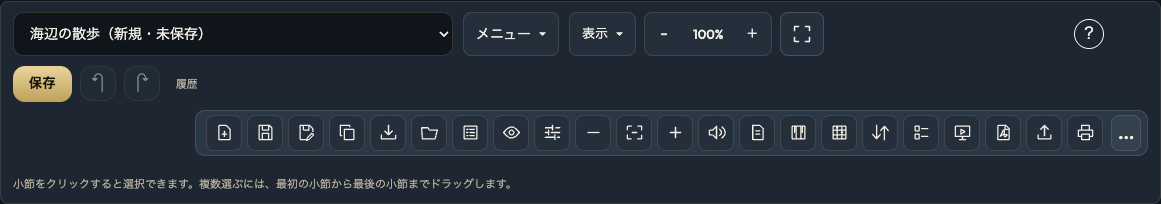
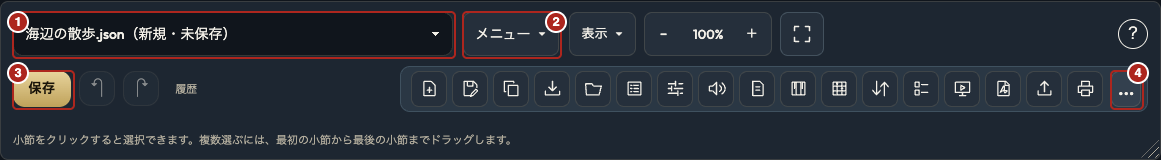
Compact the measure editor and update illustrated score guides

diff --git a/apps/cruise-studio/score-guide/index.html b/apps/cruise-studio/score-guide/index.html
@@ -12,12 +12,12 @@
 .section-map-key{margin:.8rem 0;padding-left:1.8rem;font-size:.97rem;color:#292722}.section-map-key li::marker{color:#a42b22;font-weight:700}.section-copy-steps{display:grid;grid-template-columns:repeat(2,minmax(0,1fr));gap:1.2rem}.section-copy-steps figure{margin:0}.section-copy-steps figcaption,.section-result figcaption{margin:0 0 .6rem;color:#292722;font-size:1rem}.section-copy-steps b,.section-result b{display:block}.section-result{margin-top:1.3rem}@media(min-width:651px){.section-copy-steps figure:last-child{grid-column:1/-1;display:flex;align-items:center;gap:1.4rem}.section-copy-steps figure:last-child img{order:-1}}@media(max-width:650px){.section-copy-steps{grid-template-columns:1fr}}@media print{.section-copy-steps{display:block}.section-copy-steps figure{margin:1rem 0}.section-copy-steps img{max-height:55mm}}
 #batch article+article{margin-top:3rem}#batch h4{margin:1.6rem 0 .4rem}#batch h4+p{margin-top:0}#batch figcaption{margin-top:.35rem}
 </style>
-<header id="top"><p>Cruise Studio · Ver. 0.242.1-rc.1</p><h1>譜面クルーズ 取扱説明書</h1><p>曲を作り、小節に演奏を入力し、印刷・配布するまでの操作を説明します。チュートリアルでは「そらまで」、機能別の解説では「海辺の散歩」を使います。</p></header>
+<header id="top"><p>Cruise Studio · Ver. 0.242.2-rc.1</p><h1>譜面クルーズ 取扱説明書</h1><p>曲を作り、小節に演奏を入力し、印刷・配布するまでの操作を説明します。チュートリアルでは「そらまで」、機能別の解説では「海辺の散歩」を使います。</p></header>
 <section id="overview" class="opening"><h2>画面の見かた</h2><p>操作は上、譜面は中央、再生は下にあります。左のスタジオメニューから他のツールにも移動できます。</p>
-<figure><div class="capture"><img src="overview.png" width="1440" height="1000" alt="スタジオの中で譜面クルーズを開いた画面全体"><svg aria-hidden="true" viewBox="0 0 1440 1000"><rect x="241" y="178" width="1159" height="201" rx="5" fill="none" stroke="#c32820" stroke-width="3"/><circle cx="238" cy="175" r="20" fill="#ab271e" stroke="white" stroke-width="2"/><text x="238" y="182.6" text-anchor="middle" font-family="sans-serif" font-size="24" font-weight="bold" fill="white">1</text><rect x="481" y="594" width="678" height="111" rx="5" fill="none" stroke="#c32820" stroke-width="3"/><circle cx="478" cy="591" r="20" fill="#ab271e" stroke="white" stroke-width="2"/><text x="478" y="598.6" text-anchor="middle" font-family="sans-serif" font-size="24" font-weight="bold" fill="white">2</text><rect x="241" y="929" width="1159" height="60" rx="5" fill="none" stroke="#c32820" stroke-width="3"/><circle cx="238" cy="926" r="20" fill="#ab271e" stroke="white" stroke-width="2"/><text x="238" y="933.6" text-anchor="middle" font-family="sans-serif" font-size="24" font-weight="bold" fill="white">3</text></svg></div><figcaption><ul class="legend"><li><b>1</b>上部カードで曲とツールを選ぶ</li><li><b>2</b>譜面で編集・再生する小節を選ぶ</li><li><b>3</b>再生、テンポ、音量を操作する</li></ul></figcaption></figure>
+<figure><img src="overview.png" width="1440" height="1000" alt="スタジオの中で譜面クルーズを開いた画面全体"><figcaption><ul class="legend"><li><b>1</b>上部カードで曲とツールを選ぶ</li><li><b>2</b>譜面でセクションと小節を確認する</li><li><b>3</b>再生、練習テンポ、鳴らすパートを操作する</li></ul></figcaption></figure>
 <p><a href="#lesson">最初の1曲を作ってみる ↓</a></p></section>
 <nav id="contents" aria-label="目次"><strong>目次</strong><ul>
-<li><a href="#overview">画面の見かた</a></li><li><a href="#lesson">はじめての1曲</a></li><li><a href="#start">曲を作る・開く</a></li><li><a href="#save">保存場所・複製・変更履歴</a></li><li><a href="#history">変更履歴から戻す</a></li><li><a href="#song">曲情報</a></li><li><a href="#key-capo">キー・カポ</a></li><li><a href="#bars">小節を選ぶ・移動する</a></li><li><a href="#edit">小節編集と鍵盤・フォーム入力</a></li><li><a href="#catalogue-edit">コードとフォームの一括編集</a></li><li><a href="#sections">セクションを組み立てる</a></li><li><a href="#batch">コード・ストローク一括入力</a></li><li><a href="#view">譜面の表示設定</a></li><li><a href="#play">再生と練習</a></li><li><a href="#sound-settings">音設定</a></li><li><a href="#share">書き出し・印刷・ビューワー</a></li><li><a href="#keys">キー操作・困ったとき</a></li><li><a href="#contact">お問い合わせ</a></li></ul></nav>
+<li><a href="#overview">画面の見かた</a></li><li><a href="#lesson">はじめての1曲</a></li><li><a href="#start">曲を作る・開く</a></li><li><a href="#save">保存場所・複製・変更履歴</a></li><li><a href="#history">変更履歴から戻す</a></li><li><a href="#song">曲情報</a></li><li><a href="#key-capo">キー・カポ</a></li><li><a href="#bars">小節を選ぶ・移動する</a></li><li><a href="#edit">小節編集と鍵盤・フォーム入力</a></li><li><a href="#edit-full">全小節を編集する</a></li><li><a href="#edit-values">音価と入力キー</a></li><li><a href="#catalogue-edit">コードとフォームの一括編集</a></li><li><a href="#sections">セクションを組み立てる</a></li><li><a href="#batch">コード・ストローク一括入力</a></li><li><a href="#view">譜面の表示設定</a></li><li><a href="#play">再生と練習</a></li><li><a href="#sound-settings">音設定</a></li><li><a href="#share">書き出し・印刷・ビューワー</a></li><li><a href="#keys">キー操作・困ったとき</a></li><li><a href="#contact">お問い合わせ</a></li></ul></nav>
 <main><section id="lesson"><h2>はじめての1曲「そらまで」</h2>
 <p>4/4拍子、BPM 100の4小節を作ります。コードとストロークは一括入力し、歌詞とメロディは各拍の先頭に入れます。</p>
 <h3>1. 曲を作る</h3><p>「メニュー」→「新しい曲を作成」を開き、曲名に「そらまで」、BPMに100を入力します。拍子は4/4です。右の譜面に曲名とBPMが反映されたことを確認します。この画面を開いたまま、手順2に進みます。</p>
@@ -35,15 +35,15 @@
 <h3>5. 小節編集を開く</h3><p>譜面の1小節目をクリックし、上部カードの「編集」を押します。編集画面の上で「4小節」を選ぶと、4小節分を横に並べて入力できます。</p>
 <figure><img src="lesson/edit.png" width="452" height="506" alt="選んだ小節と上部カードの編集ボタン"><figcaption>①1小節目　②編集</figcaption></figure>
 <h3>6. 歌詞を入れる</h3><p>歌詞行の各拍の先頭に、ひらがなを1文字ずつ入力します。1小節目なら、1拍目「あ」、2拍目「さ」、3拍目「の」、4拍目「ひ」です。8分グリッドでは各拍の左側のマスを使います。右へスクロールしながら、下の表のとおりに4小節分を入力します。</p><table class="lesson-notes"><caption>各列が1拍です。上段が歌詞、下段がメロディです。</caption><thead><tr><th>小節・コード</th><th>1拍目</th><th>2拍目</th><th>3拍目</th><th>4拍目</th></tr></thead><tbody><tr><th>1・C</th><td>あ<br><span>ド</span></td><td>さ<br><span>ミ</span></td><td>の<br><span>ソ</span></td><td>ひ<br><span>ミ</span></td></tr><tr><th>2・Am</th><td>か<br><span>ラ</span></td><td>ぜ<br><span>ソ</span></td><td>の<br><span>ミ</span></td><td>ね<br><span>ド</span></td></tr><tr><th>3・F</th><td>そ<br><span>ファ</span></td><td>ら<br><span>ラ</span></td><td>ま<br><span>ソ</span></td><td>で<br><span>ファ</span></td></tr><tr><th>4・G</th><td>と<br><span>ソ</span></td><td>ど<br><span>レ</span></td><td>け<br><span>シ</span></td><td>て<br><span>ソ</span></td></tr></tbody></table>
-<figure><img src="lesson/lyrics.png" width="480" height="338" alt="編集画面の1小節目。コードCの下の歌詞行に「あ・さ・の・ひ」が並ぶ"><figcaption>①4小節表示　②1拍目「あ」　③4拍目「ひ」</figcaption></figure>
+<figure><img src="lesson/lyrics.png" width="515" height="310" alt="編集画面の1小節目。コードCの下の歌詞行に「あ・さ・の・ひ」が並ぶ"><figcaption>①4小節表示　②1拍目「あ」　③4拍目「ひ」</figcaption></figure>
 <h3>7. メロディを入れる</h3><p>メロディ行で、歌詞と同じ位置に音名を入力します。「ファ」は1つのマスにまとめます。4小節分を入力したら編集画面を閉じ、歌詞の真下に各音が並んでいることを確認します。</p>
-<figure><img src="lesson/notes.png" width="480" height="338" alt="1小節目の歌詞の真下に「ド・ミ・ソ・ミ」が並ぶ"><figcaption>①4小節表示　②1拍目「ド」　③4拍目「ミ」</figcaption></figure><figure><img src="lesson/score.png" width="697" height="130" alt="コード、ストローク、歌詞、メロディの4段がそろった完成譜"><figcaption>4小節すべてにコードと4本の矢印があり、その下に歌詞とメロディが並びます。</figcaption></figure>
+<figure><img src="lesson/notes.png" width="515" height="310" alt="1小節目の歌詞の真下に「ド・ミ・ソ・ミ」が並ぶ"><figcaption>①4小節表示　②1拍目「ド」　③4拍目「ミ」</figcaption></figure><figure><img src="lesson/score.png" width="697" height="130" alt="コード、ストローク、歌詞、メロディの4段がそろった完成譜"><figcaption>4小節すべてにコードと4本の矢印があり、その下に歌詞とメロディが並びます。</figcaption></figure>
 <h3>8. 編集用のファイルを保存する</h3><p>Chrome・Edgeでは「メニュー」→「名前をつけて保存」でフォルダとファイル名を選びます。Safari・Firefoxでは同じメニューを開き、説明文中の「JSONを書き出す」を押します。このファイルは「ファイルを開く(JSON)」で再編集できます。</p>
 <figure><img src="lesson/save.png" alt="Safariの「名前をつけて保存」画面。説明文中の「JSONを書き出す」リンク"><figcaption>Safari・Firefoxでは説明文中の「JSONを書き出す」を押します。</figcaption></figure><p><a href="#save">Safariで端末内の保存先を選ぶ方法</a></p>
-<h3>9. ビューワーに書き出して再生する</h3><p>メニュー → 譜面ビューワーに書き出す。ビューワーのライブラリ内のフォルダを選びます。最初は「未分類」のまま「書き出す」を押します。完了画面の「譜面ビューワーに移動」を押し、下の「再生」で演奏を聴きます。同じボタンで一時停止できます。</p>
-<figure><img src="lesson/export.png" width="476" height="408" alt="演奏用譜面の書き出し先を選ぶ画面"><figcaption>①ライブラリ内のフォルダ　②書き出す</figcaption></figure><figure><img src="lesson/open.png" width="476" height="276" alt="書き出し完了画面"><figcaption>①譜面ビューワーに移動</figcaption></figure><figure><img src="lesson/play.png" width="1256" height="908" alt="完成した曲をビューワーで再生している画面"><figcaption>①再生・一時停止</figcaption></figure>
+<h3>9. ビューワーに書き出して再生する</h3><p>メニュー → 譜面ビューワーに書き出す。ビューワーのライブラリ内のフォルダを選びます。最初は「未分類」のまま「書き出す」を押します。完了画面の「譜面ビューワーに移動」を押し、下の「再生」で演奏を聴きます。同じボタンを押すと止まります。</p>
+<figure><img src="lesson/export.png" width="476" height="408" alt="演奏用譜面の書き出し先を選ぶ画面"><figcaption>①ライブラリ内のフォルダ　②書き出す</figcaption></figure><figure><img src="lesson/open.png" width="476" height="276" alt="書き出し完了画面"><figcaption>①譜面ビューワーに移動</figcaption></figure><figure><img src="lesson/play.png" width="1256" height="908" alt="完成した曲をビューワーで再生している画面"><figcaption>①再生・停止</figcaption></figure>
 </section><section id="start"><h2>曲を作る・開く</h2><dl><dt>新しく作る</dt><dd>「メニュー」または曲名欄の「その他のファイル操作…」で「新しい曲を作成」を選びます。<a href="#lesson">4小節の練習曲を作る手順</a></dd><dt>このブラウザの曲を開く</dt><dd>左上の曲名欄を開き、一覧から曲名を選びます。</dd><dt>端末のJSONファイルを開く</dt><dd>曲名欄の「その他のファイル操作…」→「ファイルを開く(JSON)」を選び、保存しておいた編集用ファイルを開きます。</dd></dl>
-<figure><div class="capture"><img src="toolbar.png" width="1161" height="204" alt="上段の曲切り替え・メニュー・表示と、下段の保存・履歴・ツール"><svg aria-hidden="true" viewBox="0 0 1161 203"><rect x="14" y="12" width="438" height="42" rx="5" fill="none" stroke="#c32820" stroke-width="3"/><circle cx="15" cy="15" r="13" fill="#ab271e" stroke="white" stroke-width="2"/><text x="15" y="19.9" text-anchor="middle" font-family="sans-serif" font-size="16" font-weight="bold" fill="white">1</text><rect x="464" y="12" width="94" height="42" rx="5" fill="none" stroke="#c32820" stroke-width="3"/><circle cx="461" cy="15" r="13" fill="#ab271e" stroke="white" stroke-width="2"/><text x="461" y="19.9" text-anchor="middle" font-family="sans-serif" font-size="16" font-weight="bold" fill="white">2</text><rect x="14" y="66" width="57" height="34" rx="5" fill="none" stroke="#c32820" stroke-width="3"/><circle cx="15" cy="63" r="13" fill="#ab271e" stroke="white" stroke-width="2"/><text x="15" y="67.9" text-anchor="middle" font-family="sans-serif" font-size="16" font-weight="bold" fill="white">3</text><rect x="1112" y="115" width="28" height="34" rx="5" fill="none" stroke="#c32820" stroke-width="3"/><circle cx="1109" cy="112" r="13" fill="#ab271e" stroke="white" stroke-width="2"/><text x="1109" y="116.9" text-anchor="middle" font-family="sans-serif" font-size="16" font-weight="bold" fill="white">4</text></svg></div><figcaption><ul class="legend"><li><b>1</b>曲の切り替え・保存場所・ファイル一覧</li><li><b>2</b>曲の作成や書き出し</li><li><b>3</b>現在の曲を保存</li><li><b>4</b>ツールの表示項目を選択</li></ul></figcaption></figure>
+<figure><img src="toolbar.png" width="1161" height="159" alt="上段の曲切り替え・メニュー・表示と、下段の保存・履歴・ツール"><figcaption><ul class="legend"><li><b>1</b>曲の切り替え・保存場所・ファイル一覧</li><li><b>2</b>曲の作成や書き出し</li><li><b>3</b>現在の曲を保存</li><li><b>4</b>ツールの表示項目を選択</li></ul></figcaption></figure>
 <p>上部カードの右下をドラッグすると、文字とボタンの大きさをまとめて調整できます。右下をダブルクリックすると標準に戻ります。左上の曲名欄から保存場所の確認とファイル一覧・削除ができます。新規作成、保存、複製、読み込み、書き出し、印刷は「その他のファイル操作…」を開いて選びます。「メニュー」からも同じ操作ができます。ツールの各アイコンにポインターを置くと操作名が出ます。「…」で表示項目を選び、アイコンのドラッグで順番を変更できます。最初は、上部カードに専用ボタンがある保存・表示・全画面・拡大縮小・ツールエリアのアイコンを省いています。「すべて表示」でメニューの全操作をアイコンにできます。</p></section>
 <section id="save"><h2>保存場所・複製・変更履歴</h2>
 <section id="browser-saving" aria-labelledby="browser-saving-title">
@@ -58,15 +58,15 @@
 </section>
 <dl>
 <dt>保存／名前をつけて保存</dt><dd>ファイル保存に対応したPCブラウザでは、初回の「保存」で場所と名前を選びます。次の「保存」は関連付けたファイルを更新します。「メニュー」→「名前をつけて保存」で別名を選ぶと、それ以降の保存先は新しいファイルになります。左上の曲の選択欄にはファイル名が表示され、譜面のタイトルはそのままです。</dd>
-<dt>保存場所</dt><dd>保存後の「保存場所」、または曲名欄の「この曲の保存場所」で確認できます。Chrome・Edgeでファイルに保存した曲はファイル名が表示されます。保存先のフルパスはブラウザから取得できません。「保存フォルダを開く」でファイル選択画面に保存先を表示し、キャンセルで戻れます。サイトデータに保存した曲を別のフォルダで扱うには「JSON書き出し」を使います。</dd>
+<dt>保存場所</dt><dd>保存後の案内に出る「保存場所」ボタン、または曲名欄の「この曲の保存場所」で確認できます。Chrome・Edgeでファイルに保存した曲はファイル名が表示されます。保存先のフルパスはブラウザから取得できません。「保存フォルダを開く」でファイル選択画面に保存先を表示し、キャンセルで戻れます。サイトデータに保存した曲を別のフォルダで扱うには「JSON書き出し」を使います。</dd>
 <dt>Safariで端末内のフォルダに保存する</dt><dd>「保存」はこのMacに曲を記録し、Safariがサイトデータとして管理します。サイトデータを消す前や、別の端末に渡すときは「JSON書き出し」で編集用ファイルをダウンロードしてください。
 <ul><li><strong>Mac</strong>　Safari → 設定 → 一般 → ファイルのダウンロード先で、保存時に毎回確認する設定か、Mac内のフォルダを選びます。</li></ul>再編集は曲名欄の「その他のファイル操作…」→「ファイルを開く(JSON)」から。編集を続けたあとは、更新版のJSONをもう一度書き出してください。</dd>
 <dt>不要な曲を削除する</dt><dd>曲名の選択欄で「ファイル一覧・削除…」を選び、対象の曲の「削除」を押します。パソコン版Chrome・Edgeでは、保存先や読み込み元を記憶している曲には「元のフォルダを開く」が表示されます。ファイル選択画面で場所を確認したら「キャンセル」で確認画面に戻れます。確認画面で対象の名前を確かめ、「削除する」を押します。続けて別の下書きも整理できます。ファイル一覧や保存場所は、カードの外側をクリックして閉じられます。新規作成したままの曲は「削除する」で下書きも消えます。ブラウザ内に保存した曲は、保存データと下書きの両方が削除されます。PCに書き出したJSONは手元に残ります。</dd></dl>
 <figure><div class="capture"><img src="files.png" width="512" height="211" alt="ファイル一覧の曲名と削除ボタン"><svg aria-hidden="true" viewBox="0 0 512 210"><rect x="22" y="67" width="405" height="37" rx="5" fill="none" stroke="#c32820" stroke-width="3"/><circle cx="19" cy="64" r="13" fill="#ab271e" stroke="white" stroke-width="2"/><text x="19" y="68.9" text-anchor="middle" font-family="sans-serif" font-size="16" font-weight="bold" fill="white">1</text><rect x="439" y="67" width="51" height="37" rx="5" fill="none" stroke="#c32820" stroke-width="3"/><circle cx="436" cy="64" r="13" fill="#ab271e" stroke="white" stroke-width="2"/><text x="436" y="68.9" text-anchor="middle" font-family="sans-serif" font-size="16" font-weight="bold" fill="white">2</text></svg></div><figcaption><ul class="legend"><li><b>1</b>曲を開く</li><li><b>2</b>一覧から削除</li></ul></figcaption></figure><dl>
 <dt>曲を複製</dt><dd>メニューから「曲を複製」を選び、別の曲として作業を続けます。編曲案を分けたいときに使います。</dd>
-<dt>拡大したフォームの運指を変える</dt><dd>譜面上のフォームを開き、押さえている指をクリックします。希望の指になったら「譜面に反映」を押します。下のフォーム一覧では、先に「編集する位置」で「全て」または特定の小節を選べます。</dd><dt>取り消し・履歴</dt><dd>表示設定、曲情報・キー／カポ、ストロークのパターン、拡大フォームの「ここで運指を調整」では、確定前に Ctrl＋Z（Macは⌘Z）で一手戻せます。Shiftを加えるとやり直せます。未保存の曲から新規作成・ホーム・戻るを選ぶと、保存するか確認します。「保存せず続行」を選んでも下書きは残り、ホームから戻ると続きが開きます。</dd><dd>保存ボタンの横の矢印で編集を一手ずつ取り消し・やり直しできます。「履歴」で過去の状態を選ぶと譜面を確認できます。編集履歴がいっぱいになると、古い操作から順に取り消しの対象外になります。「この時点に戻す」を確定すると、それ以降の履歴が失われます。ファイルへ反映するには保存します。</dd></dl></section>
+<dt>取り消し・履歴</dt><dd>セクション編集、曲情報、キー・カポ、表示設定、ストロークのパターン、拡大フォームの運指調整では、確定前の変更も Ctrl＋Z（Macは⌘Z）で一手ずつ取り消せます。Shiftを加えるとやり直せます。未保存の編集があるとき、新規作成や「ホーム」「戻る」では保存するか確認します。「保存せず続行」でも下書きは残ります。譜面クルーズに入り直したときや曲を切り替えるときは、編集中の下書きをそのまま開きます。</dd><dd>保存ボタンの横の矢印で編集を一手ずつ取り消し・やり直しできます。「履歴」で過去の状態を選ぶと譜面を確認できます。編集履歴がいっぱいになると、古い操作から順に取り消しの対象外になります。「この時点に戻す」を確定すると、それ以降の履歴が失われます。ファイルへ反映するには保存します。</dd></dl></section>
 <section id="history"><h2>変更履歴から戻す</h2>
-<p>上部カードの「履歴」を開きます。例では「キー・カポを変更」する前の譜面を確認します。</p>
+<p>上部カードの「履歴」を開きます。例では「曲情報を変更」した時点の譜面を確認します。</p>
 <figure><img src="history-choose.png" width="350" height="220" alt="変更履歴で「曲情報を変更」を選んだ画面。選んだ行、表示中の時点の説明、決定ボタンに番号を表示"><figcaption><ol class="section-map-key">
 <li><strong>一覧で見たい時点を選びます。</strong> 「現在」の一つ下にある「曲情報を変更」をクリックします。</li>
 <li><strong>一覧の上に表示された時点と、背後の譜面を確認します。</strong> 別の行もクリックして見比べられます。確認だけなら「キャンセル」で元の譜面に戻ります。</li>
@@ -96,22 +96,38 @@
 <figure><img src="key-transpose.png" width="538" height="146" alt="カポなしでCからDへ移調した比較表。原曲キーとPlayキーがともにDになる"><figcaption>カポなしでCからDに移調する例。原曲キーとPlayキーがともにDになることを確認して「適用」を押します。</figcaption></figure></section>
 <section id="bars"><h2>小節を選ぶ・移動する</h2><p>小節をクリックすると上部カードに小節操作が出ます。続けて同じ小節をクリックするか「編集」で入力へ進みます。複数小節は先頭から末尾へドラッグするか、最初をクリックして最後をShift＋クリックします。譜面の余白で選択を解除します。</p><dl><dt>小節追加・複製</dt><dd>選択位置の後ろに空の小節、または選んだ内容のコピーを追加します。</dd><dt>コピー・貼り付け</dt><dd>元の範囲をコピーし、貼り始める位置を選びます。「上書き貼り付け」は既存の位置を置き換え、「挿入して貼り付け」は後ろの小節を送ります。</dd><dt>移動</dt><dd>前へ・後ろへ移動するボタンで並びを変えます。セクション境界では移動後の所属も確認します。</dd><dt>削除</dt><dd>「枠を残して削除」は譜面上の場所を空き枠として残します。「詰めて削除」は後ろの小節を前へ詰めます。空き枠は再生されません。</dd></dl></section>
 <section id="edit"><h2>小節編集と鍵盤・フォーム入力</h2>
-<p>譜面で直したい小節を選び、「編集」を押します。画像は「海辺の散歩」の最初の小節です。</p>
-<figure><img src="editor.png" width="960" height="339" alt="①小節の移動と表示数、②1拍目の4行のマス、③各行の数字と▼、④再生"><figcaption><ol class="section-map-key">
-<li><strong>編集する小節を選びます。</strong> 「1小節」〜「4小節」で表示数を選びます。「前へ」「次へ」は表示数ずつ移動します。9〜12小節を表示中なら、次は13〜16小節です。最後の小節の行末でEnterを押すと、次の範囲の先頭へ進みます。</li>
-<li><strong>入れたい拍のマスをクリックします。</strong> 図の1拍目なら、コード行に「C」、歌詞行に「あ」と入力します。ストローク行はDで↓、Uで↑を入れます。</li>
-<li><strong>行名の横で入力方法を選べます。</strong> 数字でその行の音価を変えます。▼を押すと、コード行はフォーム、メロディ行は鍵盤が開きます。</li>
-<li><strong>上の「再生」で確かめます。</strong> 聴き直したいところを修正し、終わったら右上の「×」で譜面に戻ります。</li>
+<p>譜面で直したい小節を選び、「編集」を押します。図は「海辺の散歩」の最初の小節です。</p>
+<figure><img src="editor.png" width="960" height="311" alt="①小節の移動と表示数、②入力するマス、③行の音価とフォーム・鍵盤、④横方向の倍率、⑤再生、⑥最大化"><figcaption><ol class="section-map-key">
+<li><strong>編集する小節を表示します。</strong> 「1小節」〜「4小節」で表示数を選びます。「前へ」「次へ」は表示数ずつ移動します。9〜12小節を表示中なら、次は13〜16小節です。</li>
+<li><strong>入力したい拍のマスを選びます。</strong> 上からコード、ストローク、歌詞、メロディです。マス右下の数字をクリックすると、そのマスの音価を変えられます。</li>
+<li><strong>行の音価や入力方法を選びます。</strong> 行名の横の数字で音価をそろえ、▼でコード・フォームやメロディ鍵盤を開きます。</li>
+<li><strong>マスの横幅を調整します。</strong> 「−／＋」で変更し、中央の倍率を押すと100%に戻ります。横にスクロールするときも、行名は左端に残ります。</li>
+<li><strong>上の「再生」で試聴します。</strong> 通常時は表示中の小節を再生します。作業を終えるには右上の「×」を押します。</li>
+<li><strong>全小節を編集するときは右上で最大化します。</strong> もう一度押すと元の大きさと位置に戻ります。</li>
 </ol></figcaption></figure>
-<p>カードの右端を左右にドラッグすると、マスの横幅を保ったまま、見える範囲を広げたり狭めたりできます。右下の斜線をドラッグすると、カードと一緒にマスや文字を拡大・縮小できます。右上の最大化ボタンで、選択した小節の行を一番上に表示します。全小節が譜面と同じ改行・セクション区切りで並び、上下にスクロールして編集できます。「前へ」「次へ」は譜面の行単位で移動します。行名の横で音価を変えると、その行の小節だけに適用します。最大化ボタンをもう一度押すと元の大きさと位置に戻ります。マスの横幅は上部の−／＋で調整できます。「右窓へ」で編集画面の位置を切り替えられます。</p>
-<dl><dt>コード本棚のフォームを取り込む</dt><dd>コードの編集カードで「コード本棚を開く」→「本棚からフォームを書き出す」を押します。別タブの本棚でコードを選び、元のタブの「JSONファイルを読み込む」で取り込んでください。コード図を押すと、選んだマスにコードとフォームが入ります。ベース・テンションに指定した運指も使えます。</dd><dt>コード・フォーム</dt><dd>コード行のマスをクリックしてEmやG/Bなどを入力します。選択中のマスをもう一度クリックすると文字単位で直せます。行名の▼からコード・フォームを選べます。譜面または譜面下のフォーム一覧で図をクリックし、拡大図の「編集」を押すと、そのコードの小節編集が開きます。「詳細設定」を押すと、指板が「運指」で開きます。一覧で同じフォームが複数箇所にあるときは、「編集する位置」で小節と拍を選ぶと、その箇所だけを編集できます。「全て」を選んで「編集」を押すと、小節編集と同じフォームパネルが単独で開きます。コード名やダイアトニックコードを選び、図または「詳細設定」の指板で押さえ方を変更できます。最後に「反映」を押します。「コード本棚に保存」を押すと、コードクルーズが別タブで開きます。フォルダを選び、「保存する」を押すと本棚に追加されます。「詳細設定」の「表示範囲」は、押さえる位置に合わせて自動で決まります。指板の番号帯にある左右のつまみをドラッグするか、「開始」「終了」にフレット番号を入力すると、そのフォームの範囲を指定できます。「自動」にチェックを戻すと解除できます。</dd>
-<dt>ストローク</dt><dd>Dは↓、Uは↑、Xはミュート。マスの再クリックや上下キーでも切り替えられます。〜は直前の音を伸ばす指定です。RまたはSpaceは休符、Delete／Backspaceは空欄です。長い音価の記号も弾き始める位置を示します。</dd>
-<dt>歌詞・メロディ</dt><dd>歌い始めるマスに文字を入れます。メロディは行名横の▼から鍵盤でも入力できます。音の高さを確認して試聴します。表示設定では歌詞・メロディの文字サイズと字間を個別に調節できます。</dd>
-<dt>行とマスの音価</dt><dd>編集画面に並ぶ小節は、譜面上でも色が付きます。左の行名横で、表示中の小節の行全体を同じ音価にそろえます。横にスクロールしても行名は左端に残ります。1マスだけ変えるには右下の数字を選びます。マスにカーソルがあるときは Shift＋プラスで音価を短く、Shift＋マイナスで長くできます。ピリオド（.）で付点を付け外しします。全音符から32分音符まで選べます。「1」は全音符、「8」は8分音符、付点音符は音価を選び、「付点」にチェックして「適用」を押します。「8·」は付点8分音符です。全音符と32分音符では「付点」を選べません。例えば後半の8分を16分にすると、1拍に8分・16分・16分が並び、行名横は「混在」になります。メロディはマスの長さだけ鳴り、2分なら「〜」を入力せずに2拍伸びます。別の音の開始位置をまたぐ長さは選べません。音価の変更も取り消し・やり直しができます。</dd>
-<dt>マスのコピー・移動</dt><dd>同じ行をドラッグまたはShift＋クリックで選び、⌘／Ctrl＋C、貼り始めるマスで⌘／Ctrl＋V。伸ばしは先頭の音と一緒に選びます。入力済みマスの左下の点をドラッグすると移動先を上書きします。</dd></dl></section>
+<p>カードの右端をドラッグすると、マスの横幅を保ったまま見える範囲を変えられます。右下の斜線をドラッグすると、カードと一緒にマスや文字も拡大・縮小できます。「右窓へ」でカードを右側に移せます。最大化したいときは「カードに戻す」で浮かぶカードに戻します。</p>
+<h3 id="edit-full">最大化して全小節を編集する</h3>
+<p>選んだ小節が青く強調され、その小節を含む譜面の行が最上段に来ます。全小節が譜面と同じ改行・セクション区切りで並び、上下にスクロールして編集できます。</p>
+<figure><img src="editor-full.png" width="1673" height="992" alt="小節編集を最大化した例。①前へ・次へ、②選択中の2小節目、③行の音価、④最大化を戻す"><figcaption>① 行単位で移動　② 選択中の小節　③ この行の音価を一括変更　④ 元のカードに戻す</figcaption></figure>
+<p>「前へ」「次へ」は譜面の行単位で移動し、上の「再生」は選んでいる行を試聴します。行名の横で音価をそろえると、その行に並ぶ小節だけに適用されます。</p>
+<h3 id="edit-values">音価を変える</h3>
+<p>マス右下の数字は「1」が全音符、「8」が8分音符、「8·」が付点8分音符です。数字をクリックし、全音符から32分音符まで選びます。付点は「付点」にチェックし、「適用」を押します。</p>
+<figure><img src="editor-values.png" width="480" height="248" alt="マスの音価。①音価の選択肢、②付点、③適用"><figcaption>① 音価　② 付点をつける　③ 適用</figcaption></figure>
+<p>前後の入力と重なる長さや、小節に収まらない長さは選べません。全音符と32分音符は付点を付けられません。ショートカットは <kbd>Shift</kbd>＋<kbd>+</kbd> で短く、<kbd>Shift</kbd>＋<kbd>−</kbd> で長く、<kbd>.</kbd> で付点を付け外しします。</p>
+<p>後半の8分マスを16分にすると、1拍を8分＋16分＋16分に分けられます。音価の違うマスがあると、行名の横に「混在」と表示されます。行名の横で音価を選ぶと、通常時は表示中の小節、最大化時は操作した譜面の行だけが対象です。変更は取り消し・やり直しできます。</p>
+<dl><dt>ストローク</dt><dd>マスを選んでDでダウン（↓）、Uでアップ（↑）、Xでミュート、<kbd>~</kbd>で直前のストロークを伸ばします（〜）。選択したマスの再クリックや上下キーでも切り替えられます。R／Spaceで休符、Delete／Backspaceで空欄です。</dd>
+<dt>歌詞・メロディ</dt><dd>歌い始めのマスに入力します。メロディは指定した音価で鳴り、選んだ長さを鳴らすための「〜」の追加入力は不要です。既存譜面などの「〜」は直前の音を伸ばす記号です。歌詞は歌い始めだけに入れます。▼で鍵盤を開くと、音を選んで試聴できます。</dd>
+<dt>マスの移動・コピー</dt><dd>Enter／Tabで次のマス、Shift＋Tabで前のマスへ進み、小節の端を越えると隣の小節へ移ります。同じ行をドラッグまたはShift＋クリックで選び、⌘／Ctrl＋Cでコピーします。貼り始めのマスで⌘／Ctrl＋Vを押します。伸ばしは先頭の音と一緒に選びます。入力済みマスの左下の点をドラッグすると移動先を上書きします。</dd></dl>
+<h3 id="form-fingering">コードフォームの運指・押さえ方を変える</h3>
+<p>譜面や下のコードフォーム一覧で図をクリックします。拡大図の押さえている位置をクリックするたびに運指が変わります。フォーム一覧では、先に「編集する位置」で小節・拍、または「全て」を選びます。</p>
+<figure><img src="form-fingering.png" width="400" height="502" alt="拡大図で運指を変更中。①指をクリック、②詳しく編集、③譜面に反映"><figcaption>① 運指を変える　② コード編集へ進む　③ 運指の変更を反映</figcaption></figure>
+<p>運指だけ直したら「譜面に反映」を押します。「詳しく編集」は変更した運指を引き継いでコード編集を開きます。「全て」を選んだ場合は一括編集が開き、「○箇所に反映」で確定します。運指の変更を取り消して拡大図を閉じるには「キャンセル」を押します。</p>
+<dl><dt>小節編集でコード・フォームを選ぶ</dt><dd>コード行にEmやG/Bなどを入力します。▼でフォームの候補が開きます。拡大図の左上の「編集」からも該当のコードへ移れます。「詳細設定」は「運指」で開きます。表示するフレットを指定するには「表示範囲」の両端をドラッグするか、開始・終了の番号を入力します。「自動」にチェックすると、押さえ方に合う範囲に戻ります。</dd>
+<dt>コード本棚から取り込む</dt><dd>「コード本棚を開く」→「本棚からフォームを書き出す」を押し、別タブでフォームを選びます。戻って「JSONファイルを読み込む」を押し、一覧のコード図をクリックするとマスに入ります。ベース音やテンションに指定した運指も引き継がれます。</dd>
+<dt>作ったフォームを本棚に残す</dt><dd>「詳細設定」の右下の「コード本棚に保存」を押します。開いたコードクルーズのタブで保存先のフォルダを選び、「保存する」を押します。</dd></dl></section>
 <section id="catalogue-edit"><h2>コードとフォームの一括編集</h2>
 <p>譜面下の「コードフォーム一覧」で、複数の箇所に使っているフォームをクリックします。拡大画面で「編集する位置」を「全て」にして、左上の「編集」を押します。</p>
-<figure><img src="catalogue-all.png" width="400" height="418" alt="フォーム一覧でCを拡大した画面。「編集する位置」は「全て」、左上に「編集」ボタン"><figcaption>特定の1箇所だけを変えたい場合は、「全て」の代わりに小節と拍を選びます。</figcaption></figure>
+<figure><img src="catalogue-all.png" width="400" height="448" alt="フォーム一覧でCを拡大した画面。「編集する位置」は「全て」、左上に「編集」ボタン"><figcaption>特定の1箇所だけを変えたい場合は、「全て」の代わりに小節と拍を選びます。</figcaption></figure>
 <h3>同じフォームを使う5箇所を、CからDmに変える例</h3>
 <figure><img src="catalogue-edit.png" width="920" height="530" alt="一括編集画面。対象の5箇所を表示し、コード名とコード図をDmに変更した状態"><figcaption><ol class="section-map-key">
 <li><strong>上の「対象の5箇所を確認」を開きます。</strong> 第1小節・1拍目など、変更される位置が並びます。対象は一覧で選んだフォームを使う箇所です。</li>
@@ -135,7 +151,7 @@
 <figure><figcaption><b>3. パートを選んで挿入する</b>「コード」「ストローク」にだけチェックを付けて「実行」を押すと、サビの次に「Aメロ コピー」が入ります。</figcaption><img src="section-parts.png" width="262" height="175" alt="貼り付ける内容でコードとストロークにチェックを付け、実行を選ぶ画面"></figure>
 </div>
 <figure class="section-result"><figcaption><b>4. 名前と順番を確認して確定する</b>左の「セクション名」で「Aメロ コピー」を「2番Aメロ」に変更します。上の列でサビの次にあることを確認し、右上の「適用」を押します。</figcaption><img src="section-result.png" width="1050" height="140" alt="サビの直後に2番Aメロが入り、右上の適用で確定できる画面"></figure>
-<p>キーで操作する場合は、上の列でコピー元を選んで Ctrl＋C、挿入先を選んで Ctrl＋V を押します。適用前は Ctrl＋Z で一手戻り、Shiftを加えるとやり直せます。MacではCtrlの代わりに⌘を使います。</p>
+<p>キーで操作する場合は、上の列でコピー元を選んで Ctrl＋C、挿入先を選んで Ctrl＋V を押し、貼り付ける内容を選んで「実行」します。適用前は Ctrl＋Z で一手戻り、Shiftを加えるとやり直せます。MacではCtrlの代わりに⌘を使います。</p>
 <p>左下の「譜面の全体編集」からコードやストロークの一括入力へ進むと、編集中のセクション変更も曲に反映されます。</p></section>
 <section id="batch"><h2>コード・ストローク一括入力</h2>
 <article id="batch-chords"><h3>コード一括入力</h3>
@@ -170,10 +186,10 @@
 <li><strong>右上の「保存」で確定します。</strong> 編集前の見え方に戻って閉じるには「キャンセル」を押します。</li>
 </ol></figcaption></figure>
 <figure><img src="display-section-bars.png" width="264" height="156" alt="セクション別の表示を開き、対象にイントロ、小節数に3小節を指定した設定欄"><figcaption>②の設定例。他のセクションは全体の設定に従い、イントロだけが1行3小節になります。</figcaption></figure>
-<dl><dt>1行の小節数</dt><dd>自動では譜面の幅に応じて1・2・4小節になります。手動では最大8小節を指定できます。譜面例で行を選ぶと、その行の枠数と置く小節数を個別に変えられます。</dd><dt>セクションごとの変更</dt><dd>「セクション別の表示」で対象を選び、段組み、各行の表示、書体・色・サイズを調整します。未変更の項目は全体設定に従います。各行の「全体に戻す」でその行だけ戻せます。段組みも含めて戻すときは「このセクションを全体設定に戻す」を押します。譜面のセクション名の⚙はこの設定への近道です。</dd><dt>譜面の各要素</dt><dd>チェックで表示、Aaで書体、色見本で色、スライダーで文字やフォームの大きさを指定します。歌詞・メロディの字間、縦の罫線、ハイライトの透過率や再生棒の色も見本で確認できます。よく使う組み合わせは表示プリセットとして保存します。</dd><dt>ズーム・全画面</dt><dd>−／＋、トラックパッドのピンチ、Ctrl／⌘＋ホイールで読みやすい倍率にします。倍率表示を押すと標準に戻ります。全画面でも表示設定に進めます。</dd></dl></section>
-<section id="play"><h2>再生と練習</h2><figure><div class="capture"><img src="transport.png" width="1161" height="62" alt="再生ボタン、繰り返し、練習BPM、音の切り替えと音設定"><svg aria-hidden="true" viewBox="0 0 1161 62"><rect x="266" y="10" width="106" height="42" rx="5" fill="none" stroke="#c32820" stroke-width="3"/><circle cx="263" cy="15" r="13" fill="#ab271e" stroke="white" stroke-width="2"/><text x="263" y="19.9" text-anchor="middle" font-family="sans-serif" font-size="16" font-weight="bold" fill="white">1</text><rect x="382" y="10" width="38" height="42" rx="5" fill="none" stroke="#c32820" stroke-width="3"/><circle cx="379" cy="15" r="13" fill="#ab271e" stroke="white" stroke-width="2"/><text x="379" y="19.9" text-anchor="middle" font-family="sans-serif" font-size="16" font-weight="bold" fill="white">2</text><rect x="475" y="12" width="54" height="38" rx="5" fill="none" stroke="#c32820" stroke-width="3"/><circle cx="472" cy="15" r="13" fill="#ab271e" stroke="white" stroke-width="2"/><text x="472" y="19.9" text-anchor="middle" font-family="sans-serif" font-size="16" font-weight="bold" fill="white">3</text></svg></div><figcaption><ul class="legend"><li><b>1</b>再生・停止</li><li><b>2</b>繰り返し</li><li><b>3</b>練習テンポ</li></ul></figcaption></figure>
+<dl><dt>1行の小節数</dt><dd>自動では譜面の幅に応じて1・2・4小節になります。小節編集を最大化したときも、この段組みに従います。手動では最大8小節を指定できます。譜面例で行を選ぶと、その行の枠数と置く小節数を個別に変えられます。</dd><dt>セクションごとの変更</dt><dd>「セクション別の表示」で対象を選び、段組み、各行の表示、書体・色・サイズを調整します。未変更の項目は全体設定に従います。各行の「全体に戻す」でその行だけ戻せます。段組みも含めて戻すときは「このセクションを全体設定に戻す」を押します。譜面のセクション名の⚙はこの設定への近道です。</dd><dt>譜面の各要素</dt><dd>チェックで表示、Aaで書体、色見本で色、スライダーで文字やフォームの大きさを指定します。歌詞・メロディの字間、縦の罫線、ハイライトの透過率や再生棒の色も見本で確認できます。よく使う組み合わせは表示プリセットとして保存します。</dd><dt>ズーム・全画面</dt><dd>−／＋、トラックパッドのピンチ、Ctrl／⌘＋ホイールで読みやすい倍率にします。倍率表示を押すと標準に戻ります。全画面でも表示設定に進めます。</dd></dl></section>
+<section id="play"><h2>再生と練習</h2><figure><img src="transport.png" width="1161" height="62" alt="再生ボタン、繰り返し、練習BPM、音の切り替えと音設定"><figcaption><ul class="legend"><li><b>1</b>再生・停止</li><li><b>2</b>繰り返し</li><li><b>3</b>練習テンポ</li><li><b>4</b>鳴らすパート</li><li><b>5</b>音設定</li></ul></figcaption></figure>
 <p>下の「再生」で始め、再生中のボタンで止めます。演奏中は小節がハイライトされ、棒が拍の位置を示します。セクション横の「ここから」でその位置から再生できます。複数小節を選ぶと選んだ範囲を練習できます。繰り返しボタンで反復を切り替えます。</p>
-<p>下のBPMは練習用です。曲自体のテンポを変更する場合は「曲情報」を開きます。「コード」「メロディ」「メトロノーム」にチェックを入れたパートだけが鳴ります。画面幅が狭いときは「パート」を押して選びます。「音設定」でパート音量やカウントインを調整します。小節編集中は上部の再生で編集中の範囲を試聴できます。</p></section>
+<p>下のBPMは練習用です。曲自体のテンポを変更する場合は「曲情報」を開きます。「コード」「メロディ」「メトロノーム」にチェックを入れたパートだけが鳴ります。画面幅が狭いときは「パート」を押して選びます。「音設定」でパート音量やカウントインを調整します。小節編集の上部にある「再生」では、通常時は表示中の小節、最大化時は選択した譜面の行を試聴できます。</p></section>
 <section id="sound-settings"><h2>音設定</h2>
 <p>譜面下の再生バーで「音設定」を開きます。たとえば伴奏に合わせて歌う練習なら、メロディだけ小さくして聴けます。</p>
 <figure><img src="sound-settings.png" width="420" height="726" alt="音設定でメロディを60%にした例。①音量、②拍のガイドと音色、③音と棒の同期、④再生と完了"><figcaption><ol class="section-map-key">

diff --git a/apps/cruise-studio/js/modules/sheet-cruise/sheet-cruise.js b/apps/cruise-studio/js/modules/sheet-cruise/sheet-cruise.js
@@ -118,7 +118,7 @@
     }
     var editorHelp=null,editorHelpPending=null;
     function prepareEditorHelp(){
-        if(!editorHelpPending)editorHelpPending=import('./editor-help.mjs?v=0.242.0-rc.1').then(function(module){editorHelp=module.createEditorHelp({document:document,closed:refreshToolbarActions});return editorHelp;}).catch(function(){editorHelpPending=null;setSaveStatus('操作ガイドを読み込めませんでした。もう一度お試しください',true);});return editorHelpPending;
+        if(!editorHelpPending)editorHelpPending=import('./editor-help.mjs?v=0.242.2-rc.1').then(function(module){editorHelp=module.createEditorHelp({document:document,closed:refreshToolbarActions});return editorHelp;}).catch(function(){editorHelpPending=null;setSaveStatus('操作ガイドを読み込めませんでした。もう一度お試しください',true);});return editorHelpPending;
     }
     function openEditorHelp(trigger){
         if(!state.active||!editorOpen||!operationEligible()||els.slotOverlay.querySelector('.is-composing'))return;
@@ -1585,7 +1585,7 @@ dialog.sc-delete-confirm{width:min(29rem,calc(100vw - 24px));padding:clamp(14px,
 #sc-slot-overlay .slot-overlay-ruler-cell {font-size:calc(9.5px * var(--bar-loupe-scale,1));padding-left:calc(2px * var(--bar-loupe-scale,1));}
 #sc-slot-overlay .slot-overlay-ruler-cell.is-offbeat-dot::after {width:calc(3px * var(--bar-loupe-scale,1));height:calc(3px * var(--bar-loupe-scale,1));}
 #sc-slot-overlay .slot-overlay-grid {gap:calc(3px * var(--bar-loupe-scale,1));}
-#sc-slot-overlay .slot-overlay-head,#sc-slot-overlay .slot-overlay-ruler,#sc-slot-overlay .slot-overlay-grid,#sc-slot-overlay .strum-state-legend {flex-shrink:0;}
+#sc-slot-overlay .slot-overlay-head,#sc-slot-overlay .slot-overlay-ruler,#sc-slot-overlay .slot-overlay-grid {flex-shrink:0;}
 #sc-slot-overlay .dock-lyrics-beat-cells {padding-bottom:0;min-height:calc(42px * var(--bar-loupe-scale,1));}
 #sc-slot-overlay .slot-overlay-row--lyrics .dock-lyrics-beat-cells,#sc-slot-overlay .slot-overlay-row--doremi .dock-lyrics-beat-cells {min-height:calc(46px * var(--bar-loupe-scale,1));}
 #sc-slot-overlay .dock-lyrics-beat-cells > input,#sc-slot-overlay .dock-lyrics-beat-cells > button {height:100%;}
@@ -1797,7 +1797,6 @@ html:has(#screen-sheet-cruise:not(.hidden):not([hidden])):has(#sc-slot-overlay:n
 #sc-slot-overlay .dock-lyrics-beat-res-btn {width:calc(24px * var(--bar-loupe-scale,1));min-height:calc(12px * var(--bar-loupe-scale,1));font-size:calc(8px * var(--bar-loupe-scale,1));gap:calc(1.5px * var(--bar-loupe-scale,1));}
 #sc-slot-overlay .dock-lyrics-beat-res-btn.is-local::before {width:calc(6.5px * var(--bar-loupe-scale,1));height:calc(6.5px * var(--bar-loupe-scale,1));}
 #sc-slot-overlay .dock-strum-grid.is-inherited {opacity:1;}
-#sc-slot-overlay .strum-state-legend {font-size:calc(10px * var(--bar-loupe-scale,1));color:var(--slot-muted);margin:calc(4px * var(--bar-loupe-scale,1)) 0 0;}
 #sc-slot-overlay .dock-lyrics-grid {background:var(--slot-input-surface);}
 
 #sc-slot-overlay .dock-lyrics-cell.has-content {background:transparent;}
@@ -5996,7 +5995,6 @@ dialog.sc-cell-value-dialog{width:min(30rem,calc(100vw - 16px));}
         content.appendChild(pianoPanel);
         placeFullEditorPiano(pianoPanel);
         syncEditorDisclosures();
-        var legend=document.createElement('p');legend.className='strum-state-legend';legend.textContent='ストローク：↓ ダウン　↑ アップ　× ミュート　〜 伸ばす　｜　R・Spaceで休符、Deleteで空欄';content.appendChild(legend);
 
 
 

diff --git a/apps/cruise-studio/edition-candidates/score/score-candidate-features.js b/apps/cruise-studio/edition-candidates/score/score-candidate-features.js
@@ -1,4 +1,4 @@
 /* Candidate edition policy. Pro admission is independently enforced by Studio. */
 Object.defineProperty(window.CruiseStudio, 'releaseFeatures', {
-    value: Object.freeze({scoreVersion:"0.242.1-rc.1", creation:true, allows:id => id !== 'preDtm'})
+    value: Object.freeze({scoreVersion:"0.242.2-rc.1", creation:true, allows:id => id !== 'preDtm'})
 });
